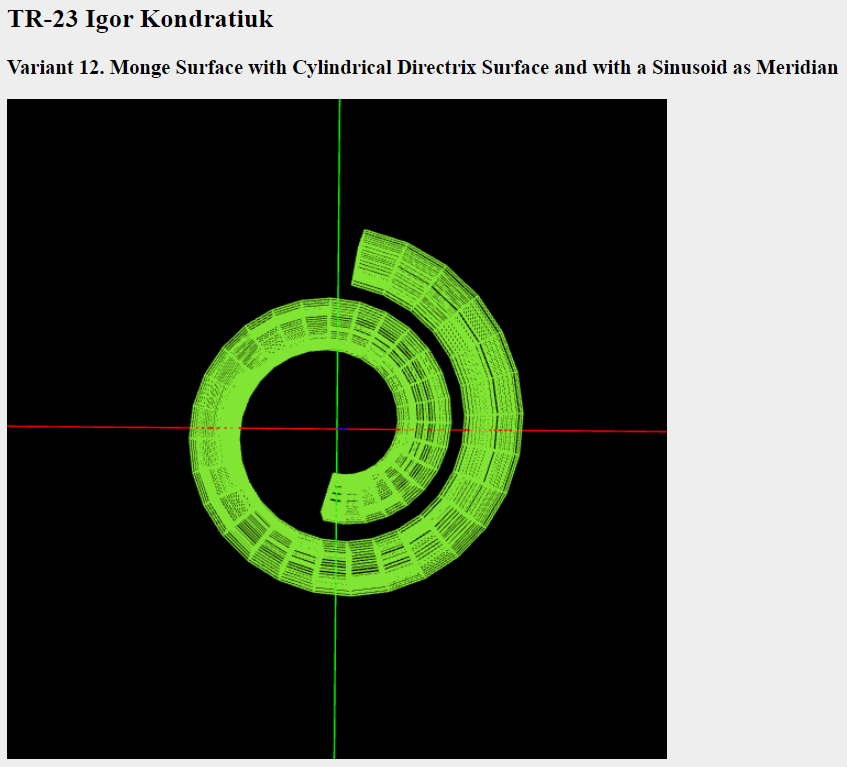
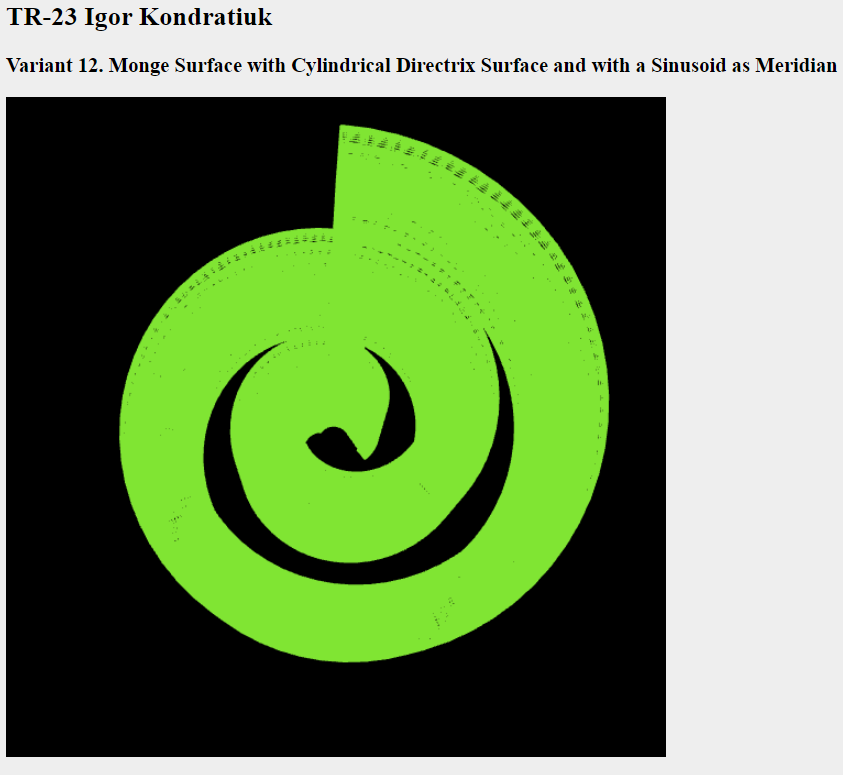
fixed and refactored model

Changed region(s): [[0.0, 0.0, 1.0, 0.9896]]

diff --git a/main.js b/main.js
@@ -1,21 +1,20 @@
 'use strict';
+
 let gl;                         // The webgl context.
 let surface;                    // A surface model
 let shProgram;                  // A shader program
 let spaceball;                  // A SimpleRotator object that lets the user rotate the view by mouse.
 
-// Init data for calculation figure coordinates
-const tStep = Math.PI / 180 * 40;
-const aStep = Math.PI / 180 * 13;
-const size = Math.PI / 2;
-const generalColor = [0.5,0.9,0.2,1];
-let figureCoordinates = [];
+function deg2rad(angle) {
+    return angle * Math.PI / 180;
+}
 
 let r = 1;
 let c = 2;
 let d = 1;
 let teta = Math.PI/2;
 let a0 = 0;
+const generalColor = [0.5,0.9,0.2,1];
 
 // Functions for calculation X,Y,Z coordinates for surface
 function getX (t,a, param = 15) {
@@ -28,35 +27,22 @@ function getZ (t, height = 15) {
     return (t * Math.sin(teta) + c * Math.sin(d * t) * Math.cos(teta)) / (-height);
 }
 
-function drawElement(type, color, vertices) {
-    gl.uniform4fv(shProgram.iColor, color);
-    gl.enableVertexAttribArray(shProgram.iAttribVertex);
-    gl.bindBuffer(gl.ARRAY_BUFFER, shProgram.iVertexBuffer);
-    gl.bufferData(gl.ARRAY_BUFFER, new Float32Array(vertices), gl.STREAM_DRAW);
-    gl.vertexAttribPointer(shProgram.iAttribVertex, 3, gl.FLOAT, false, 0, 0);
-    gl.drawArrays(type, 0, vertices.length / 3);
-}
-
-
 function deg2rad(angle) {
     return angle * Math.PI / 180;
 }
-
 
 // Constructor
 function Model(name) {
     this.name = name;
     this.iVertexBuffer = gl.createBuffer();
     this.count = 0;
-    this.
 
-    this.BufferData = function(verticesArr) {
+    this.BufferData = function(vertices) {
 
         gl.bindBuffer(gl.ARRAY_BUFFER, this.iVertexBuffer);
-        verticesArr.forEach(vertices => {
-            gl.bufferData(gl.ARRAY_BUFFER, new Float32Array(vertices), gl.STREAM_DRAW);
-            this.count = vertices.length/3;
-        })
+        gl.bufferData(gl.ARRAY_BUFFER, new Float32Array(vertices), gl.STREAM_DRAW);
+
+        this.count = vertices.length/3;
     }
 
     this.Draw = function() {
@@ -90,7 +76,7 @@ function ShaderProgram(name, program) {
 
 
 /* Draws a colored cube, along with a set of coordinate axes.
- * (Note that the use of the above draw function is not an efficient
+ * (Note that the use of the above drawPrimitive function is not an efficient
  * way to draw with WebGL.  Here, the geometry is so simple that it doesn't matter.)
  */
 function draw() {
@@ -116,78 +102,26 @@ function draw() {
     gl.uniformMatrix4fv(shProgram.iModelViewProjectionMatrix, false, modelViewProjection );
 
     /* Draw the six faces of a cube, with different colors. */
-    gl.uniform4fv(shProgram.iColor, [1,1,0,1] );
+    gl.uniform4fv(shProgram.iColor, generalColor);
 
-    //surface.Draw();
-    //let c1 = CreateSurface1Data();
-    //console.log(c1);
-    //c1.forEach( c => drawElement(gl.LINE_STRIP, generalColor, c));
-
-    CreateHPofSurface();
-    CreateVPofSurface();
-    DrawAxis();
+    surface.Draw();
 }
 
-// Draw horizontal part of figure
-function CreateHPofSurface()
-{
-    let m = 0;
-    for (let t = -15; t <= 15; t += tStep) {
-        let coords = [];
+const CreateSurfaceData = () => {
+    let vertexList = [];
 
-        for (let a = 6; a <= 10 * size; a += aStep) {
-            const generatedCoords = [getX(t, a, 15), getY(t, a, 15), getZ(t, 30)];
-            coords = [...coords, ...generatedCoords];
+    const step = 0.1
+
+    for (let t = -15; t <= 15; t += step) {
+        for (let a = 0; a <= 15; a += step) {
+            const tNext = t + step;
+            vertexList.push(getX(t, a, 10), getY(t, a, 10), getZ(t, 20));
+            vertexList.push(getX(tNext, a, 10), getY(tNext, a, 10), getZ(tNext, 20));
         }
-
-        drawElement(gl.LINE_STRIP, generalColor, coords);
-
-        figureCoordinates[m++] = [...coords];
-        coords = [];
     }
+
+    return vertexList;
 }
-
-// Draw vertical part of figure
-function CreateVPofSurface()
-{
-    for (let j = 0; j < figureCoordinates[0].length; j += 3) {
-        let coords = [];
-
-        for (let k = 0; k < figureCoordinates.length; k++) {
-            coords = [...coords, figureCoordinates[k][j], figureCoordinates[k][j + 1], figureCoordinates[k][j + 2]];
-        }
-
-        drawElement(gl.LINE_STRIP, generalColor, coords);
-        coords = [];
-    }
-}
-
-// function CreateSurface1Data()
-// {
-//     let m = 0;
-//     for (let t = -15; t <= 15; t += tStep) {
-//         let coords = [];
-//
-//         for (let a = 6; a <= 10 * size; a += aStep) {
-//             const generatedCoords = [getX(t, a, 15), getY(t, a, 15), getZ(t, 30)];
-//
-//             coords = [...coords, ...generatedCoords];
-//         }
-//         figureCoordinates[m++] = [...coords];
-//         coords = [];
-//     }
-//
-//     return figureCoordinates;
-// }
-
-function DrawAxis() {
-    gl.lineWidth(5);
-    drawElement(gl.LINES, [1, 0, 0, 1], [-9, 0, 0, 9, 0, 0]);
-    drawElement(gl.LINES, [0, 1, 0, 1], [0, -9, 0, 0, 9, 0]);
-    drawElement(gl.LINES, [0, 0, 1, 1], [0, 0, -9, 0, 0, 9]);
-    gl.lineWidth(1);
-}
-
 
 
 /* Initialize the WebGL context. Called from init() */
@@ -201,10 +135,8 @@ function initGL() {
     shProgram.iModelViewProjectionMatrix = gl.getUniformLocation(prog, "ModelViewProjectionMatrix");
     shProgram.iColor                     = gl.getUniformLocation(prog, "color");
 
-    shProgram.iVertexBuffer = gl.createBuffer();
-
-    // surface = new Model('Surface');
-    // surface.BufferData(CreateSurface1Data());
+    surface = new Model('Surface');
+    surface.BufferData(CreateSurfaceData());
 
     gl.enable(gl.DEPTH_TEST);
 }

diff --git a/index.html b/index.html
@@ -1,18 +1,20 @@
 <!DOCTYPE html>
-<html><head><meta http-equiv="Content-Type" content="text/html; charset=UTF-8">
+<html>
+<head>
+    <meta http-equiv="Content-Type" content="text/html; charset=UTF-8">
 
 
-<title>PA#1</title>
-<style>
-    body {
-        background-color: #EEEEEE;
-    }
-</style>
+    <title>PA#1</title>
+    <style>
+        body {
+            background-color: #EEEEEE;
+        }
+    </style>
 
-<script src="./Utils/trackball-rotator.js"></script>
-<script src="./Utils/m4.js"></script>
-<script src="./shader.js"></script>
-<script src="./main.js"></script>
+    <script src="./Utils/trackball-rotator.js"></script>
+    <script src="./Utils/m4.js"></script>
+    <script src="./shader.js"></script>
+    <script src="./main.js"></script>
 
 </head>
 <body onload="init()">
@@ -21,8 +23,9 @@
 <h3>Variant 12. Monge Surface with Cylindrical Directrix Surface and with a Sinusoid as Meridian</h3>
 
 <div id="canvas-holder">
-   <canvas width="600" height="600" id="webglcanvas" style="background-color:red"></canvas>
+    <canvas width="600" height="600" id="webglcanvas" style="background-color:red"></canvas>
 </div>
 
 
-</body></html>
+</body>
+</html>
